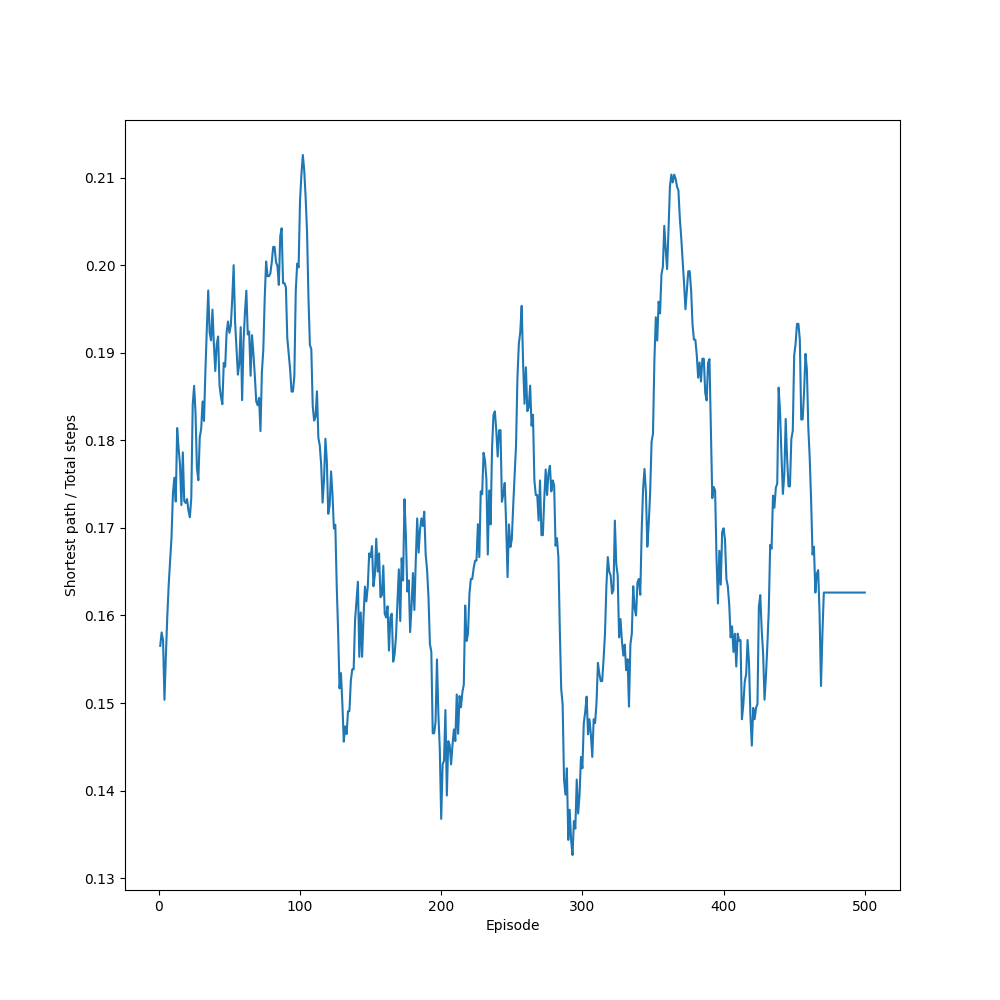
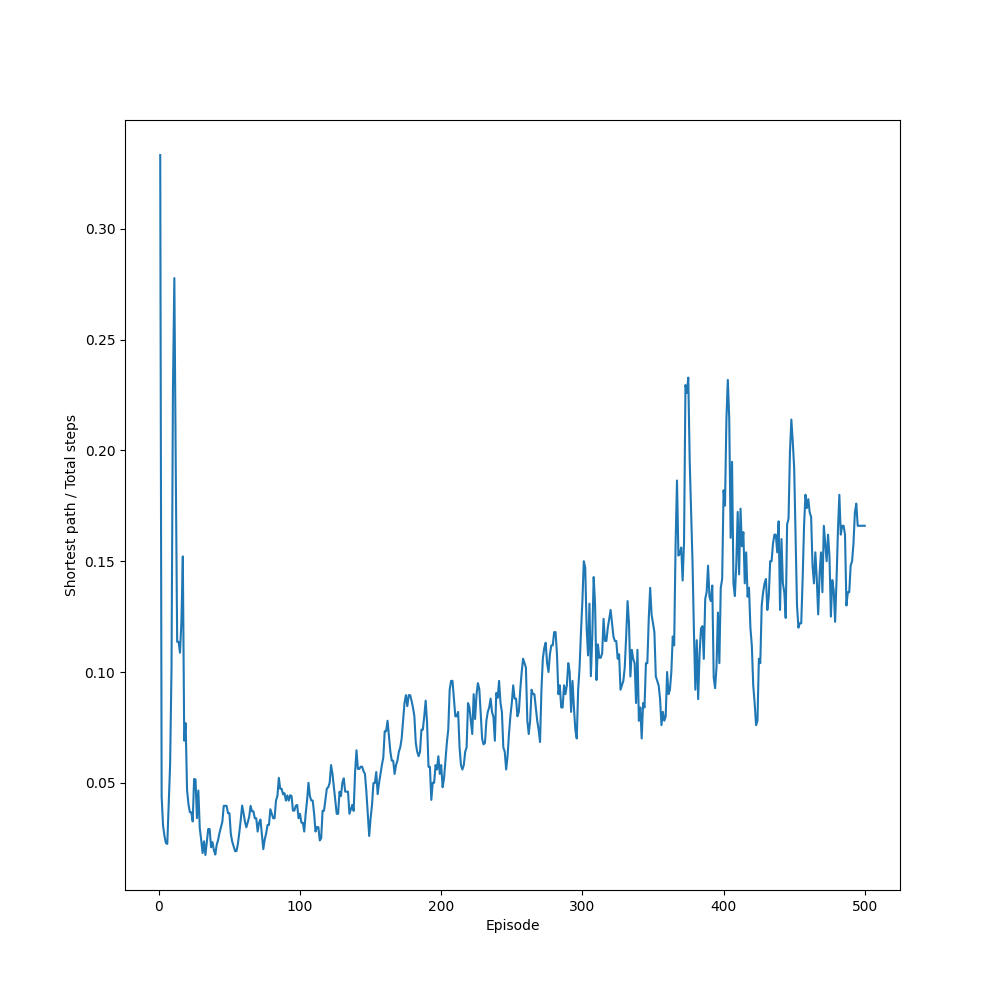
End of project

diff --git a/main.py b/main.py
@@ -6,7 +6,7 @@ from agent import Agent
 from environment import Environment
 
 env = Environment(20, 7)
-agent = Agent(200, 20, alpha=.01, gamma=.95, epsilon=.3, epsilon_lower=.3, epsilon_decay=.99)
+agent = Agent(200, 20, alpha=.01, gamma=.95, epsilon=1, epsilon_lower=.3, epsilon_decay=.99)
 observation = env.snapshot()
 game_over = False
 episode_reward = 0
@@ -31,14 +31,9 @@ def take_action(action):
     """
     global env, agent, observation, game_over, episode_reward, episode_steps
 
-    # check if action is valid
-    if not env.is_valid_action(action):
-        return None, -100, game_over
-
     observation, reward, game_over = env.step(action)
     episode_reward += reward
     episode_steps += 1
-    # print(f'Episode reward: {episode_reward} - Episode steps: {episode_steps} - Reward: {reward} - Action: {action} - ')
 
     return observation, reward, game_over
 
@@ -51,91 +46,90 @@ def main():
     max_steps = 80
     successful_episodes = 0
 
-    # for episode in range(number_of_episodes):
-    #     env.reset(True)
-    #     episode_shortest_paths.append(env.shortest_path())
-    #
-    #     while not game_over and episode_steps < max_steps:
-    #         state = process_frame(observation)
-    #         agent.step(state, take_action)
-    #         if episode < number_of_episodes * .8 and episode_steps % 5 == 0:
-    #             agent.train()
-    #         if env.shortest_path() < 16:
-    #             env.render(f'Stage: Training - Episode: {episode + 1}/{number_of_episodes} - Reward: {episode_reward} '
-    #                        f'- Steps: {episode_steps} - Shortest path: {episode_shortest_paths[-1]} '
-    #                        f'\nAgent position: {env.agent_position}'
-    #                        f'\nHyper-parameters: Alpha={agent.alpha:.3f}, Gamma={agent.gamma:.3f}, '
-    #                        f'Epsilon={agent.epsilon:.3f} ')
-    #             # time.sleep(.1)
-    #
-    #     # agent.replay()
-    #     if (episode + 1) % 10 == 0:
-    #         # agent.update_target()
-    #         agent.save()
-    #
-    #     # if (episode + 1) % 500 == 0:
-    #     #     print(f'Number of successful episodes: {successful_episodes} / 500 ({successful_episodes / 500 * 100:.2f}%)')
-    #
-    #     if game_over:
-    #         successful_episodes += 1
-    #         print(f'Stage: Training - Episode: {episode + 1}/{number_of_episodes} - Reward: {episode_reward} '
-    #               f'- Steps: {episode_steps} - Shortest path: {episode_shortest_paths[-1]}'
-    #               f'\nHyper-parameters: Alpha={agent.alpha:.3f}, Gamma={agent.gamma:.3f}, Epsilon={agent.epsilon:.3f} ')
-    #     else:
-    #         print(f'Stage: Training - Episode: {episode + 1}/{number_of_episodes} - Reward: {episode_reward} FAILED ')
-    #
-    #     episode_rewards.append(episode_reward)
-    #     episode_steps_list.append(episode_steps)
-    #     episode_reward = 0
-    #     episode_steps = 0
-    #     game_over = False
-    #
-    # # save the target model
-    # # agent.save()
-    #
-    # print(f'Number of successful episodes: {successful_episodes} / {number_of_episodes} ({successful_episodes / number_of_episodes * 100:.2f}%)')
-    #
-    # # plot the rewards
-    # plt.figure(figsize=(10, 10))
-    # plt.plot([episode + 1 for episode in range(number_of_episodes)],
-    #          [numpy.mean([episode_rewards[i]
-    #                       for i in range(min(ep, number_of_episodes - 30), min(ep + 30, number_of_episodes))])
-    #           for ep in range(number_of_episodes)])
-    # plt.gca().xaxis.set_ticks_position('top')
-    # plt.xlabel('Episode')
-    # plt.ylabel('Reward')
-    # plt.savefig('rewards.png')
-    #
-    # # plot the steps
-    # plt.figure(figsize=(10, 10))
-    # plt.plot([episode + 1 for episode in range(number_of_episodes)],
-    #          [numpy.mean([episode_shortest_paths[i]
-    #                       for i in range(min(ep, number_of_episodes - 30), min(ep + 30, number_of_episodes))]) /
-    #           numpy.mean([episode_steps_list[i]
-    #                       for i in range(min(ep, number_of_episodes - 30), min(ep + 30, number_of_episodes))])
-    #           for ep in range(number_of_episodes)])
-    # plt.xlabel('Episode')
-    # plt.ylabel('Shortest path / Total steps')
-    # plt.savefig('steps.png')
+    for episode in range(number_of_episodes):
+        env.reset(True)
+        # GOOD TO HAVE: reset only for agent position
+
+        episode_shortest_paths.append(env.shortest_path())
+
+        while not game_over and episode_steps < max_steps:
+            state = process_frame(observation)
+            agent.step(state, take_action)
+            if episode < number_of_episodes * .8 and episode_steps % 5 == 0:
+                agent.train()
+            if env.shortest_path() < 16:
+                env.render(f'Stage: Training - Episode: {episode + 1}/{number_of_episodes} - Reward: {episode_reward} '
+                           f'- Steps: {episode_steps} - Shortest path: {episode_shortest_paths[-1]} '
+                           f'\nAgent position: {env.agent_position}'
+                           f'\nHyper-parameters: Alpha={agent.alpha:.3f}, Gamma={agent.gamma:.3f}, '
+                           f'Epsilon={agent.epsilon:.3f} ')
+                # time.sleep(.1)
+
+        # agent.replay()
+        if (episode + 1) % 10 == 0:
+            # agent.update_target()
+            agent.save()
+
+        # if (episode + 1) % 500 == 0:
+        #     print(f'Number of successful episodes: {successful_episodes} / 500 ({successful_episodes / 500 * 100:.2f}%)')
+
+        if game_over:
+            successful_episodes += 1
+            print(f'Stage: Training - Episode: {episode + 1}/{number_of_episodes} - Reward: {episode_reward} '
+                  f'- Steps: {episode_steps} - Shortest path: {episode_shortest_paths[-1]}'
+                  f'\nHyper-parameters: Alpha={agent.alpha:.3f}, Gamma={agent.gamma:.3f}, Epsilon={agent.epsilon:.3f} ')
+        else:
+            print(f'Stage: Training - Episode: {episode + 1}/{number_of_episodes} - Reward: {episode_reward} FAILED ')
+
+        episode_rewards.append(episode_reward)
+        episode_steps_list.append(episode_steps)
+        episode_reward = 0
+        episode_steps = 0
+        game_over = False
+
+    print(f'Number of successful episodes: {successful_episodes} / {number_of_episodes} ({successful_episodes / number_of_episodes * 100:.2f}%)')
+
+    # plot the rewards
+    plt.figure(figsize=(10, 10))
+    plt.plot([episode + 1 for episode in range(number_of_episodes)],
+             [numpy.mean([episode_rewards[i]
+                          for i in range(min(ep, number_of_episodes - 30), min(ep + 30, number_of_episodes))])
+              for ep in range(number_of_episodes)])
+    plt.gca().xaxis.set_ticks_position('top')
+    plt.xlabel('Episode')
+    plt.ylabel('Reward')
+    plt.savefig('rewards.png')
+
+    # plot the steps
+    plt.figure(figsize=(10, 10))
+    plt.plot([episode + 1 for episode in range(number_of_episodes)],
+             [numpy.mean([episode_shortest_paths[i]
+                          for i in range(min(ep, number_of_episodes - 30), min(ep + 30, number_of_episodes))]) /
+              numpy.mean([episode_steps_list[i]
+                          for i in range(min(ep, number_of_episodes - 30), min(ep + 30, number_of_episodes))])
+              for ep in range(number_of_episodes)])
+    plt.xlabel('Episode')
+    plt.ylabel('Shortest path / Total steps')
+    plt.savefig('steps.png')
 
     # test the model on a new environment
     # input('Press enter to test the model on a new environment')
-    plt.close('all')
-    # plt.figure(figsize=(10, 10))
-    while not game_over:
-        env.reset(True)
-        shortest_path = env.shortest_path()
-        episode_reward = 0
-        episode_steps = 0
-        while not game_over and episode_steps < 100:
-            state = process_frame(env.snapshot())
-            agent.step(state, take_action)
-            env.render(
-                f'Stage: Testing - Reward: {episode_reward} - Steps: {episode_steps} - Shortest path: {shortest_path}'
-                f'\nAgent position: {env.agent_position}'
-                f'\nHyper-parameters: Alpha={agent.alpha:.3f}, Gamma={agent.gamma:.3f}, Epsilon={agent.epsilon:.3f} ')
-            # time.sleep(.1)
-            episode_steps += 1
+    # plt.close('all')
+    # # plt.figure(figsize=(10, 10))
+    # while not game_over:
+    #     env.reset(True)
+    #     shortest_path = env.shortest_path()
+    #     episode_reward = 0
+    #     episode_steps = 0
+    #     while not game_over and episode_steps < 100:
+    #         state = process_frame(env.snapshot())
+    #         agent.step(state, take_action)
+    #         env.render(
+    #             f'Stage: Testing - Reward: {episode_reward} - Steps: {episode_steps} - Shortest path: {shortest_path}'
+    #             f'\nAgent position: {env.agent_position}'
+    #             f'\nHyper-parameters: Alpha={agent.alpha:.3f}, Gamma={agent.gamma:.3f}, Epsilon={agent.epsilon:.3f} ')
+    #         # time.sleep(.1)
+    #         episode_steps += 1
 
 
 if __name__ == '__main__':

diff --git a/agent.py b/agent.py
@@ -49,15 +49,8 @@ class Agent:
         else:
             q_values = self.model.predict(np.array([state]), verbose=0)[0]
             action_index = np.argmax(q_values)
-            # print('Best action:', self.action_space[action_index], 'Q-values:', q_values)
-
 
         next_state, reward, game_over = take_action(self.action_space[action_index])
-
-        # in case of invalid move
-        while next_state is None:
-            action_index = random.randrange(4)
-            next_state, reward, game_over = take_action(self.action_space[action_index])
 
         if len(self.memory.queue) == self.memory.maxsize:
             self.memory.get()
@@ -130,10 +123,3 @@ class Agent:
     def save(self):
         self.model.save_weights('model')
         print('***** Model saved successfully to file *****')
-
-    # def save_model(self, filename):
-    #     self.model.save(filename)
-    #
-    # def load_model(self, filename):
-    #     self.model = load_model(filename)
-    #     self.target_model = load_model(filename)

diff --git a/environment.py b/environment.py
@@ -189,10 +189,3 @@ class Environment:
         """
         length = abs(self.agent_position[0] - self.target_position[0]) + abs(self.agent_position[1] - self.target_position[1])
         return length
-
-    def is_valid_action(self, action):
-        """
-        returns `True` if `action` is valid
-        """
-        new_position = (self.agent_position[0] + action[0], self.agent_position[1] + action[1])
-        return 0 <= new_position[0] < self.image_size and 0 <= new_position[1] < self.image_size
